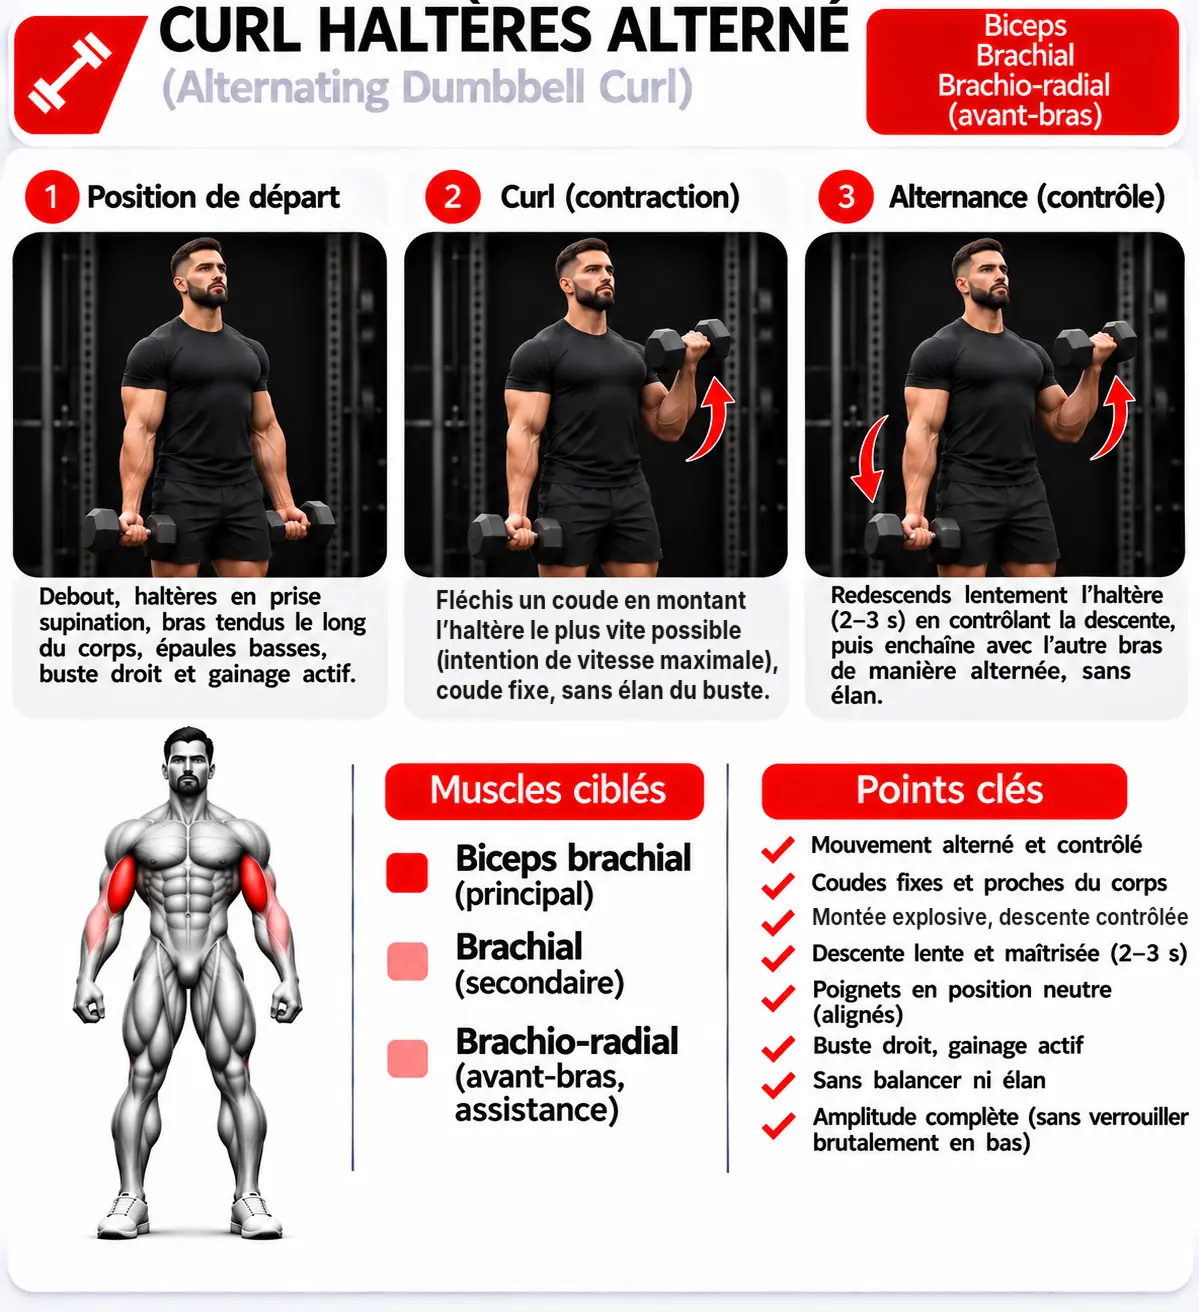
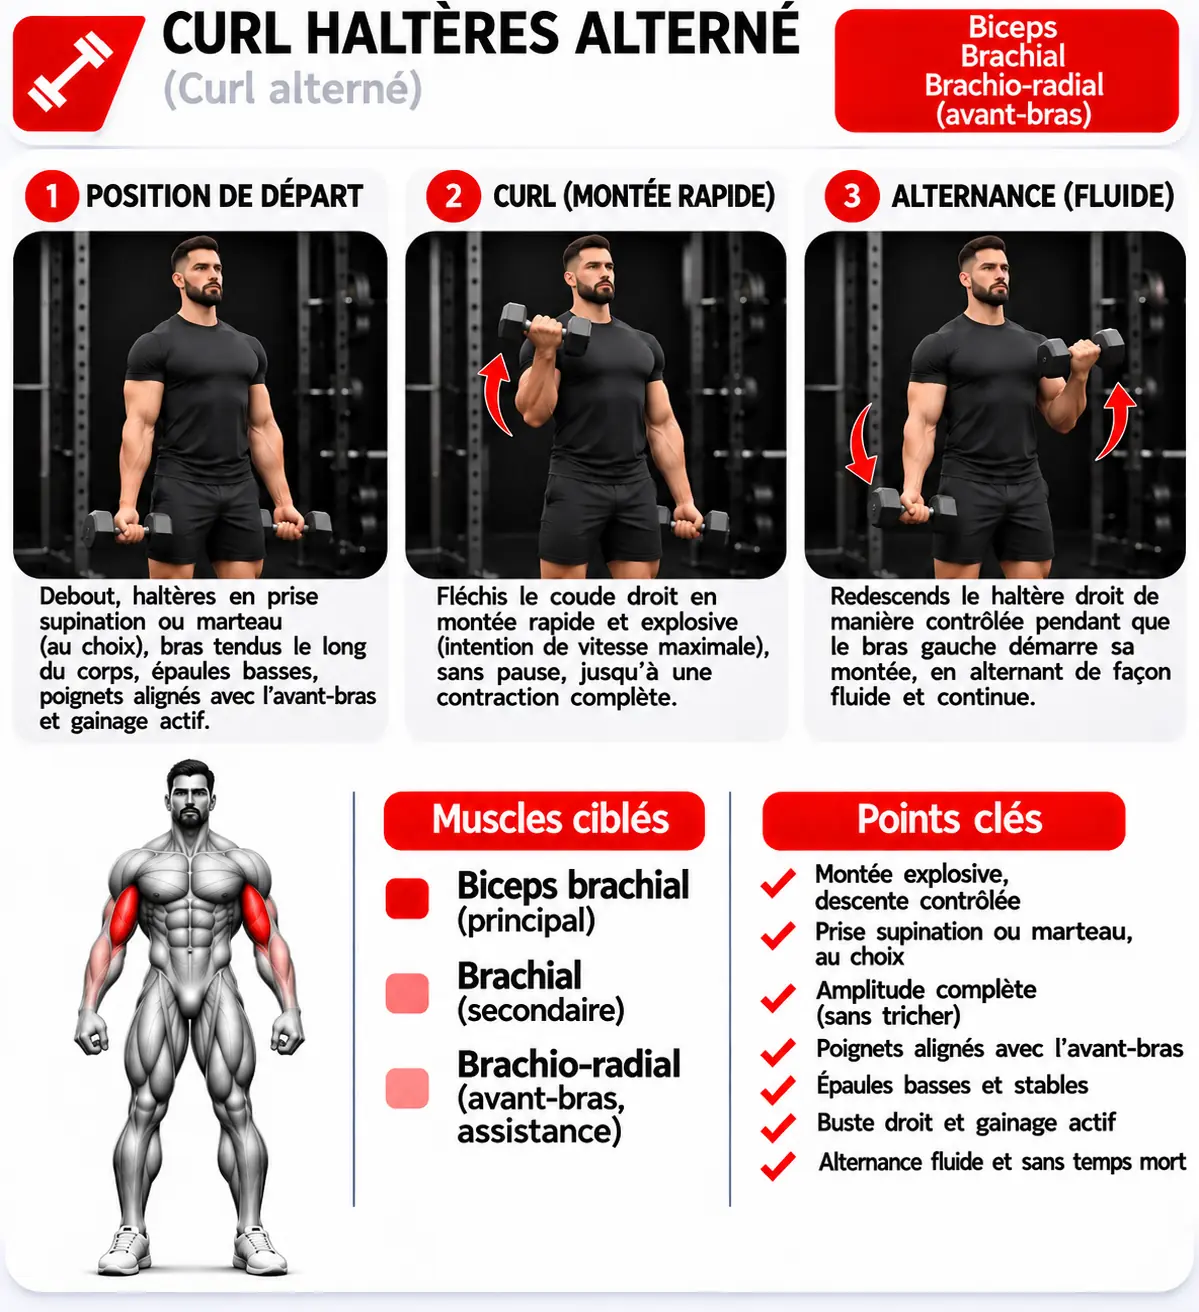
MASS FORCE : fiches techniques complètes, 28 exercices sur 28
Quatorze nouvelles planches générées par Guillaume (fond blanc, avatar
MASS) : développé couché barre et Smith, développé incliné haltères,
extension triceps allongé, tirage vertical poulie et machine, rowing buste
penché, tirage horizontal barre large, tirage supination machine, squat
barre, fentes avant et bulgares, push press Smith et barre. Le curl
haltères prend sa nouvelle planche, au texte d'origine conforme.

Les pièges de l'audit ont leur propre planche ; un test interdit de leur
rattacher la voisine (prouvé en rattachant le push press au développé
militaire). Un test exige une fiche pour chaque exercice (prouvé en en
retirant une). Vérifié dans l'app, chaque matériel choisi tour à tour :
28 exercices, 28 fiches.

Aucun fichier de POWER, MASS CONGESTION ni FEMMES. 1 695 tests.

Claude-Session: https://claude.ai/code/session_01KTnDe2WMmihUB2VJexk5Yk

Changed region(s): [[0.0, 0.0, 1.0, 1.0], [0.0617, 0.0312, 0.0926, 0.0625]]

diff --git a/src/programmes/massforce/fiches.ts b/src/programmes/massforce/fiches.ts
@@ -10,43 +10,55 @@
  *
  * ── Ce qu'elle ne contient PAS, exprès ────────────────────────────────────
  *
- * Seuls les mouvements dont une planche MASS montre le même geste avec le
- * même matériel (dix), plus deux rattachements décidés par Guillaume (lot
- * F2) : le leg curl prend la planche du leg curl allongé, les élévations
- * frontales celle des élévations alternées (il les fait ainsi). Les autres restent sans fiche plutôt qu'avec
- * une fausse :
+ * Dix planches de MASS CONGESTION montrant le même geste avec le même
+ * matériel, deux rattachements décidés par Guillaume (leg curl → leg curl
+ * allongé, élévations frontales → alternées), et quinze planches générées
+ * par Guillaume pour MASS FORCE (lots F2 et F4), au même gabarit et avec le
+ * même avatar MASS.
  *
- * - pièges écartés : tirage horizontal LARGE (la planche est en prise serrée
- *   neutre), push press (la planche Smith est un développé strict, sans
- *   impulsion des jambes), développé incliné HALTÈRES (planches : incliné
- *   Smith, ou couché plat) ;
- * - quatorze mouvements sans planche MASS (lot F4).
+ * Les pièges relevés à l'audit ont désormais LEUR planche — ne jamais les
+ * rattacher aux voisines : tirage horizontal LARGE ≠ prise serrée
+ * (`close-grip-cable-row`), push press ≠ développé militaire strict
+ * (`smith-military-press`), incliné HALTÈRES ≠ incliné Smith.
  *
- * MASS CONGESTION a sa propre table (`mass4/fiches.ts`), inchangée : deux
- * programmes peuvent montrer le même fichier, leurs prescriptions restent
- * indépendantes.
+ * Les 28 exercices de MASS FORCE ont leur fiche. L'extension triceps allongé
+ * a été refaite une fois : la première planche colorait l'avant du bras
+ * (biceps) et annonçait deux fléchisseurs du coude.
  */
 
 export const FICHES_FORCE: Readonly<Record<string, string>> = {
   // Lundi
+  'mf-developpe-couche-barre': 'barbell-bench-press.webp', // « Développé couché (barre libre) »
+  'mf-developpe-couche-smith': 'smith-bench-press.webp', // « Développé couché Smith machine »
+  'mf-developpe-incline-halteres': 'incline-db-press.webp', // « Développé incliné haltères »
   'mf-ecarte-couche': 'db-fly.webp', // « Écarté couché haltères »
   // Planche générée par Guillaume (lot F2) : la barre au front en barre W,
   // comme le prescrit MASS FORCE (l'ancienne planche montre une barre droite).
   'mf-barre-au-front': 'ez-skull-crusher.webp', // « Barre front barre W »
+  'mf-extension-triceps-allonge': 'db-lying-triceps-extension.webp', // vue de dos, triceps
   // Mardi
+  'mf-tirage-vertical-poulie': 'lat-pulldown-cable.webp', // « Tirage vertical poulie haute »
+  'mf-tirage-vertical-machine': 'lat-pulldown-machine.webp', // « … machine guidée »
+  'mf-rowing-buste-penche': 'barbell-row.webp', // « Rowing buste penché »
+  'mf-tirage-horizontal-large': 'wide-cable-row.webp', // « Tirage horizontal assis », barre LARGE
   'mf-tirage-supination-poulie': 'supinated-lat-pulldown.webp', // « … prise supination »
+  'mf-tirage-supination-machine': 'supinated-machine-pulldown.webp', // « … machine guidée »
   'mf-pull-over-poulie': 'cable-pullover.webp', // « Pull over à la poulie »
   'mf-curl-barre-w': 'ez-curl.webp', // « Biceps curl barre W »
-  // Planche générée par Guillaume (lot F2), deux textes retouchés pour suivre
-  // la prescription : montée à intention de vitesse maximale.
+  // Planche générée par Guillaume : montée à intention de vitesse maximale.
   'mf-curl-halteres': 'db-alternating-curl.webp', // « Curl haltères alterné »
   // Jeudi
+  'mf-squat-barre': 'barbell-squat.webp', // « Squat (barre libre) »
   'mf-squat-smith': 'smith-squat.webp', // « Squat Smith Machine »
   'mf-leg-extension': 'leg-extension.webp', // « Leg Extension assis »
   // Décision de Guillaume (lot F2) : le leg curl prend la planche du leg curl allongé.
   'mf-leg-curl': 'leg-curl.webp', // « Leg Curl allongé »
+  'mf-fentes-avant': 'forward-lunge.webp', // « Fentes avant haltères »
   'mf-fentes-arriere': 'db-lunge.webp', // « Fentes arrières haltères »
+  'mf-fentes-bulgares': 'bulgarian-split-squat.webp', // « Fentes bulgares haltères »
   // Vendredi
+  'mf-push-press-smith': 'push-press-smith.webp', // impulsion des jambes visible
+  'mf-push-press-barre': 'push-press-barbell.webp', // impulsion des jambes visible
   // Décision de Guillaume (lot F2) : élévations frontales faites en alterné.
   'mf-elevations-frontales': 'front-raise.webp', // « Élévations frontales (… alternées) »
   'mf-elevations-laterales': 'lateral-raise.webp',

diff --git a/src/programmes/massforce/fiches.test.ts b/src/programmes/massforce/fiches.test.ts
@@ -17,12 +17,29 @@ import { SEANCES_FORCE } from './seances';
 
 const fichier = (nom: string) => new URL(`../../../public/fiches/${nom}`, import.meta.url);
 /* Planches MASS générées par Guillaume pour MASS FORCE, au gabarit et à l'avatar MASS. */
-const PLANCHES_FOURNIES = ['ez-skull-crusher.webp', 'db-alternating-curl.webp'];
+const PLANCHES_FOURNIES = [
+  'ez-skull-crusher.webp',
+  'db-alternating-curl.webp',
+  'incline-db-press.webp',
+  'smith-bench-press.webp',
+  'barbell-bench-press.webp',
+  'lat-pulldown-cable.webp',
+  'lat-pulldown-machine.webp',
+  'barbell-row.webp',
+  'wide-cable-row.webp',
+  'supinated-machine-pulldown.webp',
+  'barbell-squat.webp',
+  'forward-lunge.webp',
+  'bulgarian-split-squat.webp',
+  'push-press-smith.webp',
+  'push-press-barbell.webp',
+  'db-lying-triceps-extension.webp',
+];
 const idsForce = SEANCES_FORCE.flatMap((s) => s.lignes.flatMap((l) => l.options.map((o) => o.id)));
 
 describe('les fiches de MASS FORCE', () => {
-  it('quatorze mouvements, chacun un vrai exercice de MASS FORCE', () => {
-    expect(Object.keys(FICHES_FORCE)).toHaveLength(14);
+  it('vingt-huit mouvements, chacun un vrai exercice de MASS FORCE', () => {
+    expect(Object.keys(FICHES_FORCE)).toHaveLength(28);
     for (const id of Object.keys(FICHES_FORCE)) expect(idsForce, id).toContain(id);
   });
 
@@ -46,15 +63,21 @@ describe('les fiches de MASS FORCE', () => {
     expect(fichePourForce('mf-barre-au-front')).toBe('fiches/ez-skull-crusher.webp');
   });
 
-  it('les pièges et les planches partielles restent sans fiche', () => {
-    for (const id of [
-      'mf-tirage-horizontal-large', // planche en prise serrée neutre
-      'mf-push-press-smith', // la planche Smith est un développé strict
-      'mf-push-press-barre',
-      'mf-developpe-incline-halteres', // planches : incliné Smith ou couché plat
-    ]) {
-      expect(fichePourForce(id), id).toBeUndefined();
-    }
+  it('les pièges ont LEUR planche, jamais celle du mouvement voisin', () => {
+    expect(fichePourForce('mf-tirage-horizontal-large')).toBe('fiches/wide-cable-row.webp');
+    expect(fichePourForce('mf-push-press-smith')).toBe('fiches/push-press-smith.webp');
+    expect(fichePourForce('mf-push-press-barre')).toBe('fiches/push-press-barbell.webp');
+    expect(fichePourForce('mf-developpe-incline-halteres')).toBe('fiches/incline-db-press.webp');
+    const voisines = [
+      'close-grip-cable-row.webp',
+      'smith-military-press.webp',
+      'smith-incline-press.webp',
+    ];
+    for (const f of Object.values(FICHES_FORCE)) expect(voisines, f).not.toContain(f);
+  });
+
+  it('chaque exercice de MASS FORCE a sa fiche', () => {
+    expect(idsForce.filter((id) => fichePourForce(id) === undefined)).toEqual([]);
   });
 
   it('le chemin servi est celui des autres fiches', () => {

diff --git a/CLAUDE.md b/CLAUDE.md
@@ -389,23 +389,21 @@ matériel et la durée avant d'écrire la moindre séance.
      confinement (`enteteMassCss`, `confinementMass`, `seanceMass`) le
      vérifient. Photo de Semaine calée à DROITE (à gauche, un iPhone de
      430 px montrait une bande noire).
-     **Fiches de MASS FORCE — lots F1, F2, F3 (audit des fiches MASS).**
-     Table propre `programmes/massforce/fiches.ts` (14 exercices), qui ne
-     montre QUE des planches MASS déjà livrées (avatar MASS ; jamais un
-     `power12-*`). MASS CONGESTION garde sa table (`mass4/fiches.ts`),
-     inchangée. Décisions de Guillaume : leg curl → planche du leg curl
-     allongé ; élévations frontales → planche alternée (il les fait ainsi).
-     Restent SANS fiche, exprès : tirage horizontal large (la planche est en
-     prise serrée), push press (la planche Smith est un développé strict),
-     développé incliné haltères (pas de planche) — ne pas les rattacher à
-     ces voisins ; 14 mouvements sans planche MASS. Barre au front et curl
-     haltères ont des planches générées par Guillaume (`ez-skull-crusher`,
-     `db-alternating-curl`, fond BLANC — décision de Guillaume pour toute la
-     bibliothèque MASS) ; deux textes du curl retouchés pour suivre la
-     prescription (montée à intention de vitesse maximale). Le fond du bloc fiche
-     (exercice sans fiche) de MASS FORCE est la salle MASS (`massSalle`) et
-     non la photo `force` du pack POWER (`ambianceFicheDe`) ; POWER et MASS
-     CONGESTION gardent le leur. `massforce/fiches.test.ts` fige tout cela.
+     **Fiches de MASS FORCE — COMPLÈTES : 28 exercices sur 28.** Table
+     propre `programmes/massforce/fiches.ts` : 10 planches de MASS CONGESTION
+     au même geste et au même matériel, 2 rattachements décidés par
+     Guillaume (leg curl → leg curl allongé ; élévations frontales →
+     alternées), 16 planches générées par Guillaume pour MASS FORCE, fond
+     BLANC (décision de Guillaume pour toute la bibliothèque MASS), avatar
+     MASS. Jamais un `power12-*`. MASS CONGESTION garde sa table
+     (`mass4/fiches.ts`), inchangée. Les pièges de l'audit ont LEUR planche —
+     ne jamais leur rattacher la voisine : tirage horizontal large ≠ prise
+     serrée, push press ≠ développé militaire, incliné haltères ≠ incliné
+     Smith. Toute planche fournie se vérifie (geste, matériel, muscles,
+     cohérence avec la prescription) avant intégration : le curl et
+     l'extension triceps ont été refaits pour des muscles ou un tempo faux.
+     Le fond du bloc fiche (exercice sans fiche) de MASS FORCE est la salle
+     MASS (`massSalle`, `ambianceFicheDe`). `massforce/fiches.test.ts`.
      **Bandeaux du 14 novembre — FAIT.** Sept images de Guillaume (3:1,
      ramenées à 1200/640 px). POWER : Nutrition (`nutritionPower`), Combine
      (`combinePower`, logo de chaussure effacé du fichier), Semaine
